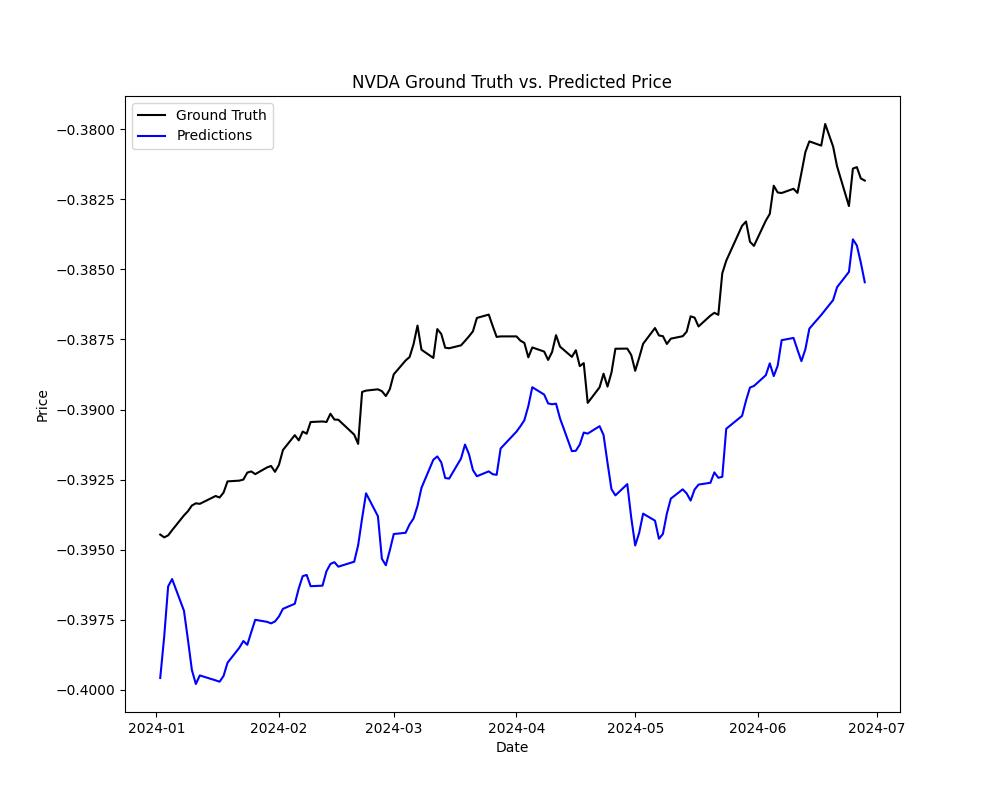
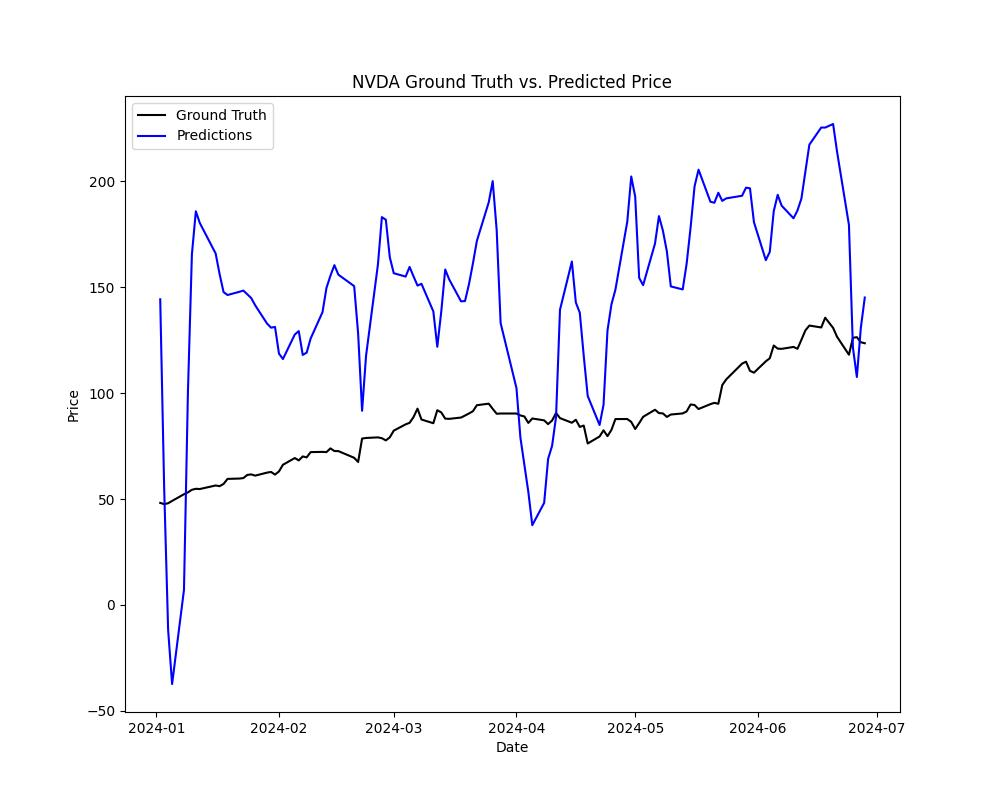
try fixing some problems with weird biases...

diff --git a/evaluation.py b/evaluation.py
@@ -10,20 +10,24 @@ import matplotlib.pyplot as plt
 import argparse
 
 
-def lstm_model_eval(model_path: str, scaler_path: str, ticker: str, time_interval: str,
-                    label: str, start_date: date, end_date: date = None):
+def lstm_model_eval(model_path: str, X_scaler_path: str, y_scaler_path: str,
+                    ticker: str, time_interval: str, label: str, error: str,
+                    start_date: date, end_date: date = None):
     """
     Evaluate an LSTM model's predictions for the given ticker's price over some time period.
 
     Args:
         model_path (str): String with the path to the LSTM model (which should be generated by "train.py").
-        scaler_path (str): String with the path to the StandardScaler used by the model
-            (which should be generated by "train.py").
+        X_scaler_path (str): String with the path to the scaler used by the model to scale the input 
+            instances (which should be generated by "train.py").
+        y_scaler_path (str): String with the path to the scaler used by the model to scale the output
+            labels (which should be generated by "train.py").
         ticker (str): String with the ticker to evaluate the model on.
         time_interval (str): String with the time interval of the model. 
             Should be "1m" or "1d".
         label (str): String with the label used for the model. 
             Should be "price" or "percent-change".
+        error (str): String with the error (loss) function used by the model.
         start_date (datetime.date): Date for the first date of the time window for the evaluation.
             If time_interval is "1m", then this defines the day to get the 1-minute chart for.
         end_date (datetime.date): Date for the last date of the time window for the evaluation.
@@ -53,22 +57,17 @@ def lstm_model_eval(model_path: str, scaler_path: str, ticker: str, time_interva
         time_col = data['Minute'][WINDOW_LENGTH:]
 
     # Transform the data into the sequence format the model wants
-    scaler = np.load(scaler_path, allow_pickle=True).item()
-    scaled_data = pd.DataFrame(scaler.transform(data),
-                               index=data.index, columns=data.columns)
-    scaled_data['Ticker'] = ticker
-    X, y_gt = prepare_model_data(scaled_data, label, 'Close')
+    X_scaler = np.load(X_scaler_path, allow_pickle=True).item()
+    X, y_gt = prepare_model_data(data, label, X_scaler, 'Close')
 
     # Predict
     model = load_model(model_path)
-    y_predictions = model.predict(X).reshape(len(y_gt))
+    y_predictions_scaled = model.predict(X)
 
     # Transform back into non-normalized scale
-    # if label == 'price':
-    #     close_index = np.where(scaler.get_feature_names_out() == 'Close')[0][0]
-    #     mean, scale = scaler.mean_[close_index], scaler.scale_[close_index]
-    #     y_gt = y_gt * scale + mean
-    #     y_predictions = y_predictions * scale + mean
+    y_scaler = np.load(y_scaler_path, allow_pickle=True).item()
+    y_predictions = y_scaler.inverse_transform(
+        y_predictions_scaled).reshape(len(y_gt))
 
     # Calculate various metrics.
     # MAE
@@ -83,9 +82,9 @@ def lstm_model_eval(model_path: str, scaler_path: str, ticker: str, time_interva
     if label == 'percent-change':
         correct_incorrect = np.sign(y_gt * y_predictions)
     elif label == 'price':
-        close_column_index = data.columns.get_loc('Close')
+        X_prices = data['Close'].iloc[WINDOW_LENGTH-1:-1]
         correct_incorrect = np.sign(
-            (y_gt - X[:, -1, close_column_index]) * (y_predictions - X[:, -1, close_column_index]))
+            (y_gt - X_prices) * (y_predictions - X_prices))
 
     percent_correct = len(
         [sign for sign in correct_incorrect if sign == 1]) / len(y_gt)
@@ -113,8 +112,8 @@ def lstm_model_eval(model_path: str, scaler_path: str, ticker: str, time_interva
     if time_interval == '1d':
         date_string += '_' + str(end_date)
 
-    plot_name = './plots/v2/LSTM_{}_{}_{}_close-{}.jpeg'.format(
-        ticker, time_interval, date_string, label,
+    plot_name = './plots/v2/LSTM_{}_{}_{}_close-{}_{}.jpeg'.format(
+        ticker, time_interval, date_string, label, error
     )
 
     plt.savefig(plot_name)
@@ -143,12 +142,12 @@ if __name__ == '__main__':
             args.time_interval, args.label, args.error
         )
 
-        model_path, scaler_path = f'{tag}_model.keras', f'{tag}_scaler.npy'
+        model_path, X_scaler_path, y_scaler_path = f'{tag}_model.keras', f'{tag}_X_scaler.npy', f'{tag}_y_scaler.npy'
 
         if args.time_interval == '1d':
             start, end = date(2024, 1, 1), date(2024, 6, 30)
         elif args.time_interval == '1m':
             start, end = date(2024, 7, 26), None
 
-        lstm_model_eval(model_path, scaler_path, args.ticker,
-                        args.time_interval, args.label, start, end)
+        lstm_model_eval(model_path, X_scaler_path, y_scaler_path,
+                        args.ticker, args.time_interval, args.label, args.error, start, end)

diff --git a/train.py b/train.py
@@ -4,9 +4,9 @@ import numpy as np
 import pandas as pd
 from common import *
 from sklearn.model_selection import train_test_split
-from sklearn.preprocessing import StandardScaler
+from sklearn.preprocessing import MinMaxScaler
 from keras.models import Sequential
-from keras.layers import LSTM, Dense, Input
+from keras.layers import LSTM, Dense, Input, Dropout
 from keras.callbacks import EarlyStopping
 import argparse
 
@@ -38,12 +38,9 @@ def prepare_training_data(time_interval: str, label: str):
     tickers_df = pd.read_csv(f'./{dir_prefix}_market_data/all_tickers.csv')
 
     # Normalize
-    std_scaler = StandardScaler()
-    tickers_data_scaled = std_scaler.fit_transform(tickers_df.drop(columns=['Ticker']))
-    tickers_df_scaled = pd.DataFrame(
-        np.column_stack([tickers_data_scaled, tickers_df['Ticker']]), 
-        index=tickers_df.index, columns=tickers_df.columns)
-    tickers_df_grouped = tickers_df_scaled.groupby(by=['Ticker'])
+    X_scaler = MinMaxScaler()
+    X_scaler.fit(tickers_df.drop(columns=ignore_cols))
+    tickers_df_grouped = tickers_df.groupby(by=['Ticker'])
 
     for ticker in tickers:
         data = tickers_df_grouped.get_group(ticker)
@@ -55,14 +52,15 @@ def prepare_training_data(time_interval: str, label: str):
             for day in days:
                 day_data = daily_data.get_group(day)
                 ticker_X, ticker_y = prepare_model_data(
-                    day_data, label, 'Close')
+                    day_data, label, X_scaler, 'Close')
 
                 X.append(ticker_X)
                 y.append(ticker_y)
 
         else:
             # Just use the whole file as the training set
-            ticker_X, ticker_y = prepare_model_data(data, label, 'Close')
+            ticker_X, ticker_y = prepare_model_data(
+                data, label, X_scaler, 'Close')
 
             X.append(ticker_X)
             y.append(ticker_y)
@@ -72,7 +70,11 @@ def prepare_training_data(time_interval: str, label: str):
     X = np.concatenate(X)
     y = np.concatenate(y)
 
-    return X, y, std_scaler
+    # Normalize the outputs as well
+    y_scaler = MinMaxScaler()
+    y = y_scaler.fit_transform(y.reshape(-1, 1))
+
+    return X, y, X_scaler, y_scaler
 
 
 def get_lstm_model(shape: tuple[int, int]):
@@ -90,7 +92,9 @@ def get_lstm_model(shape: tuple[int, int]):
     model = Sequential([
         Input(shape=(window_length, num_features)),
         LSTM(units=num_features**2, return_sequences=True),
+        Dropout(0.1),
         LSTM(units=100),
+        Dropout(0.1),
         Dense(units=1)
     ])
     return model
@@ -112,7 +116,7 @@ if __name__ == '__main__':
     args = parser.parse_args()
 
     # Prepare training data
-    X, y, scaler = prepare_training_data(
+    X, y, X_scaler, y_scaler = prepare_training_data(
         args.time_interval, args.label)
 
     # Prepare validation data
@@ -137,5 +141,6 @@ if __name__ == '__main__':
         # Save the model
         model.save(f'{tag}_model.keras')
 
-        # Save the scaler
-        np.save(f'{tag}_scaler.npy', scaler)
+        # Save the scalers
+        np.save(f'{tag}_X_scaler.npy', X_scaler)
+        np.save(f'{tag}_y_scaler.npy', y_scaler)

diff --git a/common.py b/common.py
@@ -2,9 +2,11 @@
 
 import numpy as np
 import pandas as pd
+from sklearn.preprocessing import MinMaxScaler
 
 # Tickers to use for building datasets and training.
-tickers = ['AAPL', 'MSFT', 'NVDA', 'AMZN', '^GSPC', '^DJI', '^RUT', 'CL=F', 'GC=F']
+tickers = ['AAPL', 'MSFT', 'NVDA', 'AMZN',
+           '^GSPC', '^DJI', '^RUT', 'CL=F', 'GC=F']
 
 # Number of time points to use in defining sequence data.
 WINDOW_LENGTH = 30
@@ -30,25 +32,27 @@ def percent_change_label(data: pd.DataFrame, i: int, col: str):
 
 
 # Columns from CSV files to keep out of the training data.
-ignore_cols = ['Year', 'Month', 'Day', 'Ticker']
+ignore_cols = ['Ticker']
 
 
-def prepare_model_data(data: pd.DataFrame, label: str, col: str):
+def prepare_model_data(data: pd.DataFrame, label: str, scaler: MinMaxScaler, col: str):
     """
     Prepare input instances and ground truth labels (X and y) given raw CSV data, using the defined
-        WINDOW_LENGTH as the sequence length.
+        WINDOW_LENGTH as the sequence length, and normalizing using the given scaler.
 
     Args:
         data (pandas.DataFrame): Pandas DataFrame containing the raw CSV data.
         label (str): String indicating what value to use as the labels:
             "price": Use the price of the given column.
             "percent-change": Use the percent change in values of the given column.
+        scaler (MinMaxScaler): Scaler to use in normalization.
         col (str): Column name to use in creating the labels.
 
     Returns:
         numpy.array, numpy.array: Two numpy arrays X and y containing the training instances and ground
             truth labels, respectively. X will have shape (len(data) - WINDOW_LENGTH, WINDOW_LENGTH, NUM_FEATURES),
-            while y will have shape (len(data) - WINDOW_LENGTH).
+            while y will have shape (len(data) - WINDOW_LENGTH). The training instances are normalized, while
+            the labels are not.
     """
     # Define the label function based on the label
     if label == 'price':
@@ -61,13 +65,13 @@ def prepare_model_data(data: pd.DataFrame, label: str, col: str):
 
     # Iterate through every sequence (sliding window) in the data
     for i in range(len(data) - WINDOW_LENGTH):
-        sequence = data[i:i+WINDOW_LENGTH].drop(columns=ignore_cols)
-        sequence = sequence.to_numpy()
+        sequence = data[i:i+WINDOW_LENGTH].drop(columns=ignore_cols, errors='ignore')
+        sequence = scaler.transform(sequence)
         gt_label = labeller(i+WINDOW_LENGTH)
         X.append(sequence)
         y.append(gt_label)
 
-    X = np.array(X).astype('float32')
-    y = np.array(y).astype('float32')
+    X = np.array(X)
+    y = np.array(y)
 
     return X, y

diff --git a/README.md b/README.md
@@ -9,3 +9,5 @@ First working model: regression
 - After normalizing each sequence's data (standard normalization) and trying a different loss function (MAE), the predictions are more varied but still close to 0.
 - Trying to use the next closing price as the label instead of the percent return, the result is similar: the model predicts the same value across the entire range.
 - Finally, after forcing normalization, the model predicts prices somewhat well (not just staying at a constant, following the ups and downs). Need to investigate certain behavior of seeming offset by an amount.
+- It seems for stocks with lower absolute prices, the models performs worse. This is probably because of all values of all stocks are normalized according to the same min-max.
+- Even after using MAPE (mean absolute percent error) as the loss, the problem persits.
